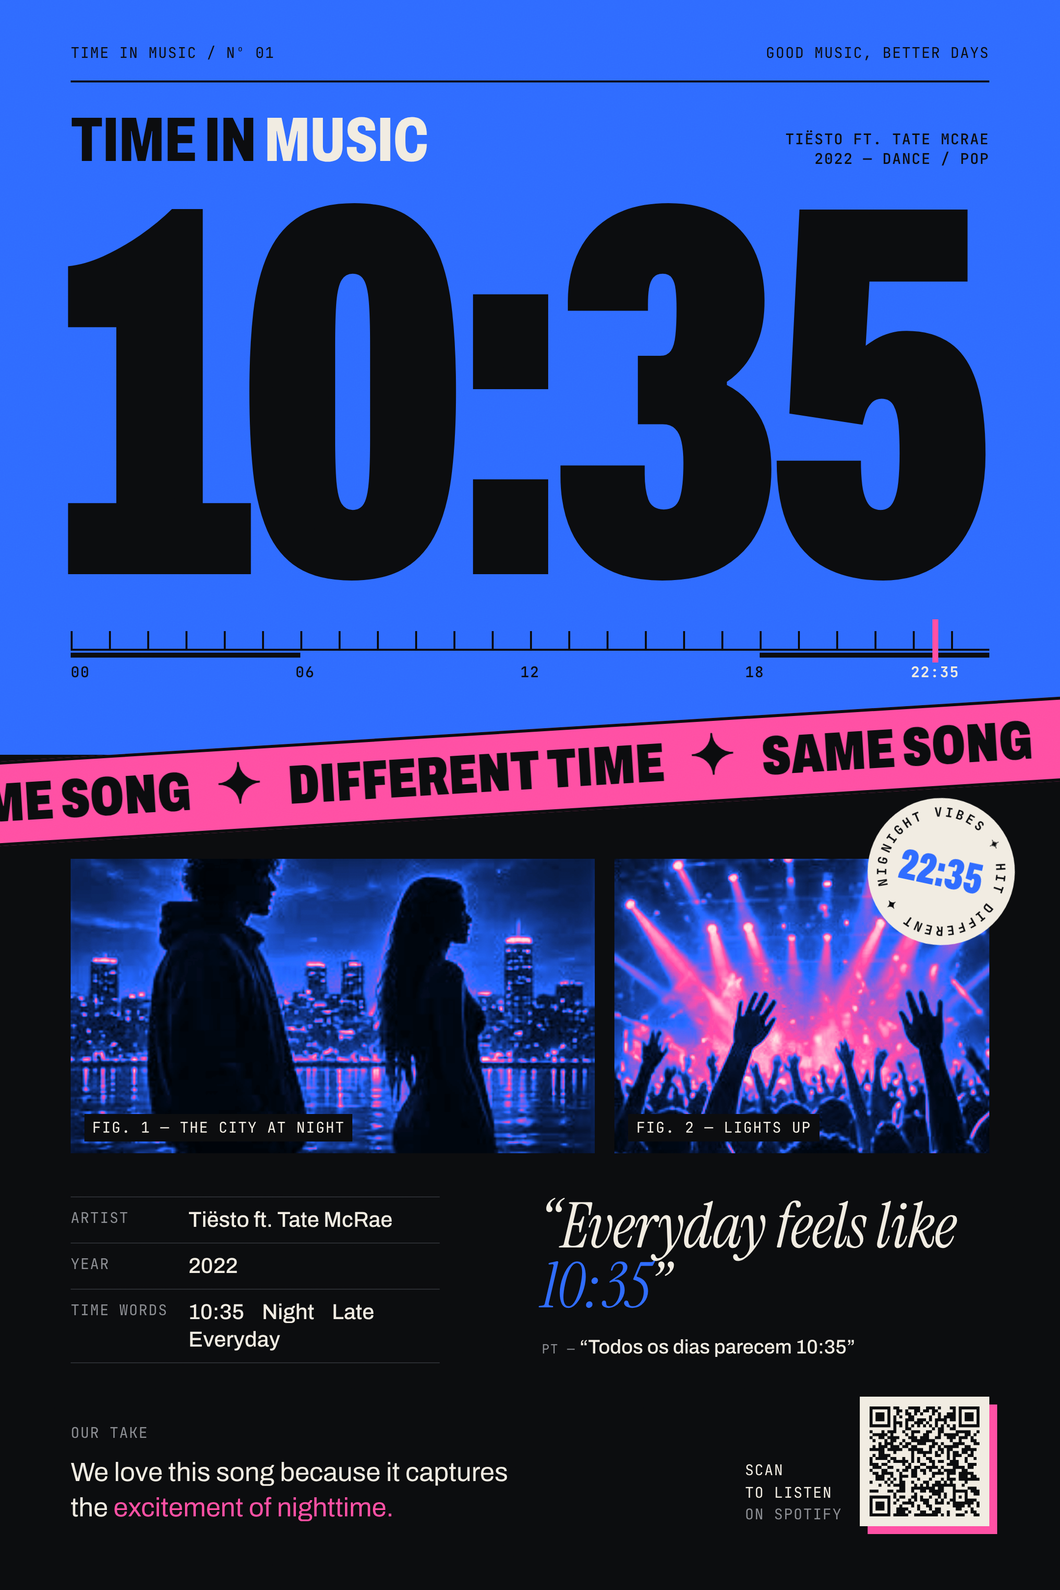
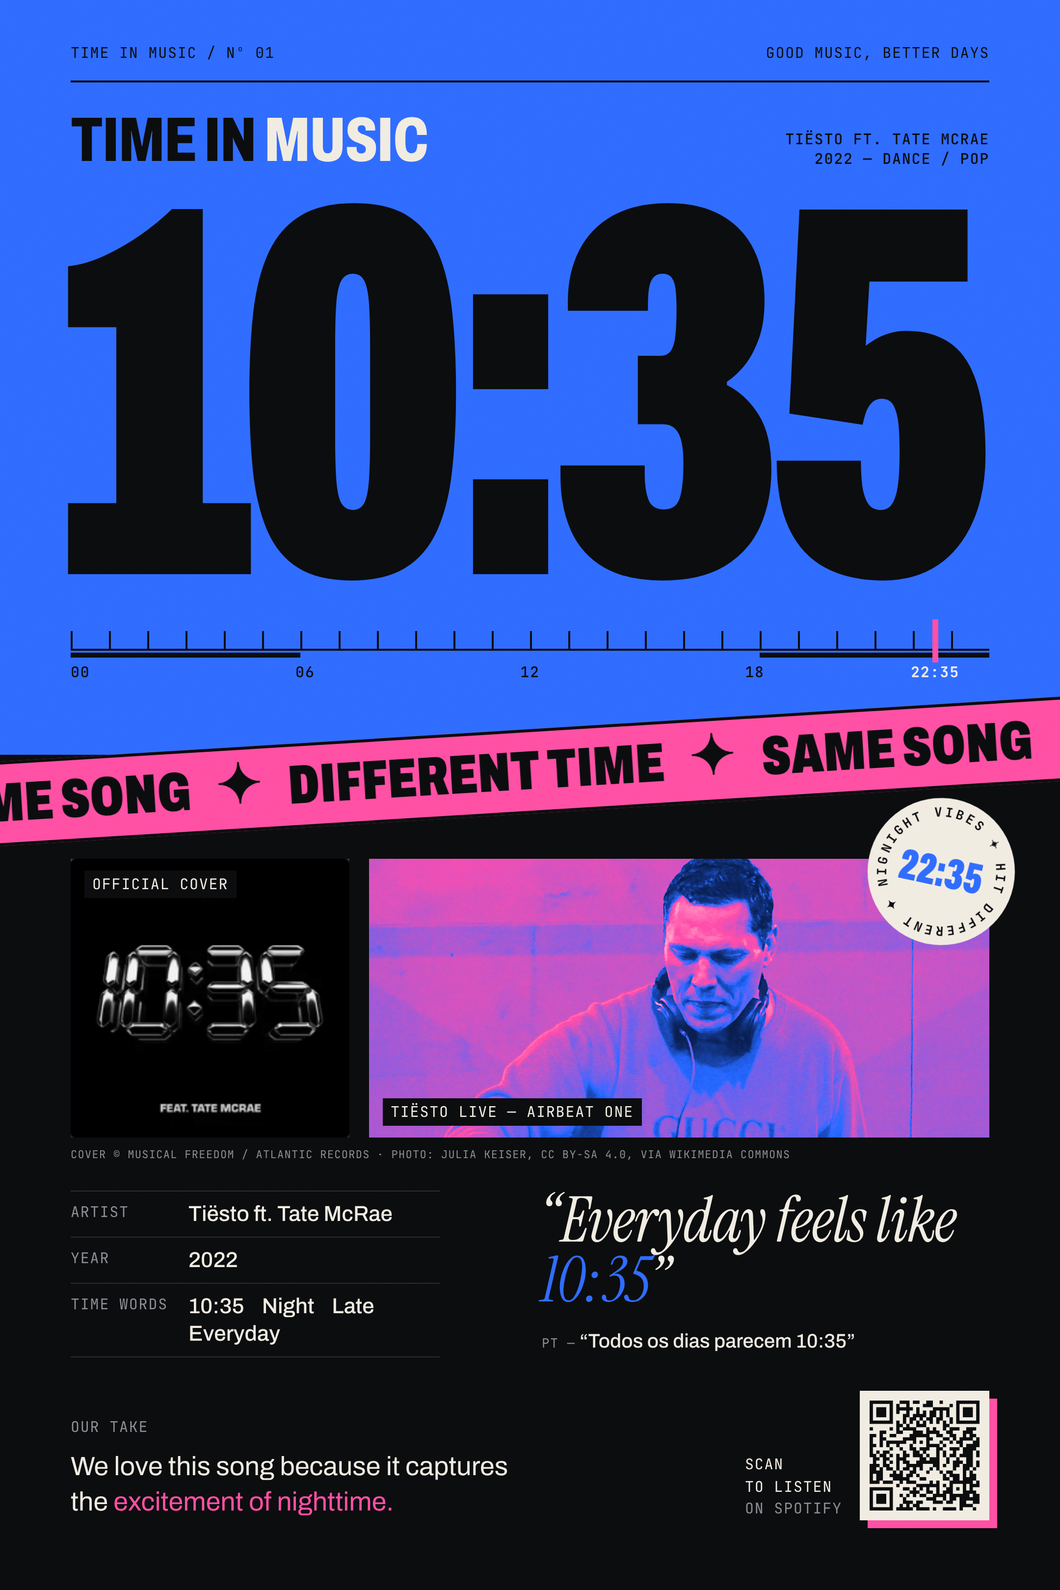
Use real official cover and CC-licensed Tiësto photo; QR to real Spotify track
Claude-Session: https://claude.ai/code/session_01N5V79tCM4EaiqWw1qUjwJE

diff --git a/poster-1035/poster.html b/poster-1035/poster.html
@@ -68,9 +68,12 @@
 
   /* ── fotos ── */
   .main{padding:0 var(--M) 56px;flex:1;display:flex;flex-direction:column}
-  .photos{margin-top:46px;display:grid;grid-template-columns:7fr 5fr;gap:20px;height:300px;position:relative}
+  .photos{margin-top:46px;display:grid;grid-template-columns:284px 1fr;gap:20px;height:284px;position:relative}
   .photos figure{position:relative;overflow:hidden;background:var(--ink)}
   .photos img{width:100%;height:100%;object-fit:cover;display:block;filter:url(#gradmap) contrast(1.1)}
+  .photos .cover img{filter:none}
+  .photos .cover figcaption{top:12px;bottom:auto}
+  .credits{margin-top:10px;font-size:11px;color:var(--mute)}
   .photos figcaption{position:absolute;left:14px;bottom:12px;color:var(--paper);z-index:1;
     background:var(--ink);padding:4px 8px}
 
@@ -84,7 +87,7 @@
   @keyframes spin{to{transform:rotate(360deg)}}
 
   /* ── corpo ── */
-  .body{margin-top:44px;display:grid;grid-template-columns:repeat(12,1fr);column-gap:24px;row-gap:34px;align-content:start}
+  .body{margin-top:30px;display:grid;grid-template-columns:repeat(12,1fr);column-gap:24px;row-gap:34px;align-content:start}
   .facts{grid-column:1 / span 5;border-top:1px solid var(--line)}
   .facts dl{display:grid;grid-template-columns:120px 1fr}
   .facts dt,.facts dd{padding:11px 0;border-bottom:1px solid var(--line)}
@@ -156,8 +159,8 @@
 
   <section class="main">
     <div class="photos">
-      <figure><img src="img/casal.png" alt="" style="object-position:50% 15%"><figcaption class="mono">Fig. 1 — The city at night</figcaption></figure>
-      <figure><img src="img/show.png" alt="" style="object-position:50% 30%"><figcaption class="mono">Fig. 2 — Lights up</figcaption></figure>
+      <figure class="cover"><img src="img/capa-oficial.png" alt="Capa oficial do single 10:35"><figcaption class="mono">Official cover</figcaption></figure>
+      <figure><img src="img/tiesto-airbeat-one-2017.jpg" alt="Tiësto ao vivo no Airbeat One 2017" style="object-position:50% 22%"><figcaption class="mono">Tiësto live — Airbeat One</figcaption></figure>
 
       <div class="sticker" aria-label="Night vibes hit different">
         <svg viewBox="0 0 150 150">
@@ -169,6 +172,7 @@
         <b>22:35</b>
       </div>
     </div>
+    <p class="credits mono">Cover © Musical Freedom / Atlantic Records · Photo: Julia Keiser, CC BY-SA 4.0, via Wikimedia Commons</p>
 
     <section class="body">
       <div class="facts">
@@ -192,7 +196,7 @@
 
       <div class="listen">
         <p class="mono">Scan<br>to listen<br><span class="mute">on Spotify</span></p>
-        <div class="qr"><svg version="1.1" viewBox="0 0 37 37" xmlns="http://www.w3.org/2000/svg"><path fill="#0B0C0E" d="M0,0H1V1H0zM1,0H2V1H1zM2,0H3V1H2zM3,0H4V1H3zM4,0H5V1H4zM5,0H6V1H5zM6,0H7V1H6zM8,0H9V1H8zM9,0H10V1H9zM13,0H14V1H13zM14,0H15V1H14zM15,0H16V1H15zM16,0H17V1H16zM19,0H20V1H19zM20,0H21V1H20zM21,0H22V1H21zM23,0H24V1H23zM27,0H28V1H27zM28,0H29V1H28zM30,0H31V1H30zM31,0H32V1H31zM32,0H33V1H32zM33,0H34V1H33zM34,0H35V1H34zM35,0H36V1H35zM36,0H37V1H36zM0,1H1V2H0zM6,1H7V2H6zM9,1H10V2H9zM10,1H11V2H10zM12,1H13V2H12zM15,1H16V2H15zM16,1H17V2H16zM18,1H19V2H18zM19,1H20V2H19zM21,1H22V2H21zM22,1H23V2H22zM28,1H29V2H28zM30,1H31V2H30zM36,1H37V2H36zM0,2H1V3H0zM2,2H3V3H2zM3,2H4V3H3zM4,2H5V3H4zM6,2H7V3H6zM9,2H10V3H9zM12,2H13V3H12zM13,2H14V3H13zM15,2H16V3H15zM17,2H18V3H17zM21,2H22V3H21zM23,2H24V3H23zM26,2H27V3H26zM27,2H28V3H27zM28,2H29V3H28zM30,2H31V3H30zM32,2H33V3H32zM33,2H34V3H33zM34,2H35V3H34zM36,2H37V3H36zM0,3H1V4H0zM2,3H3V4H2zM3,3H4V4H3zM4,3H5V4H4zM6,3H7V4H6zM8,3H9V4H8zM10,3H11V4H10zM13,3H14V4H13zM14,3H15V4H14zM20,3H21V4H20zM23,3H24V4H23zM25,3H26V4H25zM26,3H27V4H26zM27,3H28V4H27zM28,3H29V4H28zM30,3H31V4H30zM32,3H33V4H32zM33,3H34V4H33zM34,3H35V4H34zM36,3H37V4H36zM0,4H1V5H0zM2,4H3V5H2zM3,4H4V5H3zM4,4H5V5H4zM6,4H7V5H6zM8,4H9V5H8zM12,4H13V5H12zM13,4H14V5H13zM14,4H15V5H14zM16,4H17V5H16zM17,4H18V5H17zM18,4H19V5H18zM20,4H21V5H20zM22,4H23V5H22zM23,4H24V5H23zM24,4H25V5H24zM25,4H26V5H25zM27,4H28V5H27zM28,4H29V5H28zM30,4H31V5H30zM32,4H33V5H32zM33,4H34V5H33zM34,4H35V5H34zM36,4H37V5H36zM0,5H1V6H0zM6,5H7V6H6zM8,5H9V6H8zM9,5H10V6H9zM10,5H11V6H10zM12,5H13V6H12zM15,5H16V6H15zM16,5H17V6H16zM17,5H18V6H17zM19,5H20V6H19zM22,5H23V6H22zM25,5H26V6H25zM30,5H31V6H30zM36,5H37V6H36zM0,6H1V7H0zM1,6H2V7H1zM2,6H3V7H2zM3,6H4V7H3zM4,6H5V7H4zM5,6H6V7H5zM6,6H7V7H6zM8,6H9V7H8zM10,6H11V7H10zM12,6H13V7H12zM14,6H15V7H14zM16,6H17V7H16zM18,6H19V7H18zM20,6H21V7H20zM22,6H23V7H22zM24,6H25V7H24zM26,6H27V7H26zM28,6H29V7H28zM30,6H31V7H30zM31,6H32V7H31zM32,6H33V7H32zM33,6H34V7H33zM34,6H35V7H34zM35,6H36V7H35zM36,6H37V7H36zM8,7H9V8H8zM12,7H13V8H12zM13,7H14V8H13zM21,7H22V8H21zM23,7H24V8H23zM24,7H25V8H24zM27,7H28V8H27zM28,7H29V8H28zM0,8H1V9H0zM4,8H5V9H4zM6,8H7V9H6zM7,8H8V9H7zM8,8H9V9H8zM11,8H12V9H11zM14,8H15V9H14zM15,8H16V9H15zM16,8H17V9H16zM19,8H20V9H19zM20,8H21V9H20zM23,8H24V9H23zM24,8H25V9H24zM29,8H30V9H29zM30,8H31V9H30zM31,8H32V9H31zM32,8H33V9H32zM33,8H34V9H33zM36,8H37V9H36zM1,9H2V10H1zM2,9H3V10H2zM3,9H4V10H3zM4,9H5V10H4zM5,9H6V10H5zM7,9H8V10H7zM12,9H13V10H12zM14,9H15V10H14zM18,9H19V10H18zM19,9H20V10H19zM23,9H24V10H23zM25,9H26V10H25zM26,9H27V10H26zM27,9H28V10H27zM28,9H29V10H28zM29,9H30V10H29zM32,9H33V10H32zM33,9H34V10H33zM35,9H36V10H35zM0,10H1V11H0zM3,10H4V11H3zM4,10H5V11H4zM6,10H7V11H6zM7,10H8V11H7zM8,10H9V11H8zM9,10H10V11H9zM13,10H14V11H13zM14,10H15V11H14zM15,10H16V11H15zM17,10H18V11H17zM18,10H19V11H18zM19,10H20V11H19zM22,10H23V11H22zM23,10H24V11H23zM26,10H27V11H26zM27,10H28V11H27zM28,10H29V11H28zM30,10H31V11H30zM31,10H32V11H31zM32,10H33V11H32zM34,10H35V11H34zM1,11H2V12H1zM5,11H6V12H5zM7,11H8V12H7zM8,11H9V12H8zM11,11H12V12H11zM14,11H15V12H14zM15,11H16V12H15zM16,11H17V12H16zM17,11H18V12H17zM18,11H19V12H18zM19,11H20V12H19zM20,11H21V12H20zM21,11H22V12H21zM27,11H28V12H27zM30,11H31V12H30zM34,11H35V12H34zM35,11H36V12H35zM3,12H4V13H3zM5,12H6V13H5zM6,12H7V13H6zM7,12H8V13H7zM10,12H11V13H10zM12,12H13V13H12zM13,12H14V13H13zM16,12H17V13H16zM17,12H18V13H17zM18,12H19V13H18zM21,12H22V13H21zM22,12H23V13H22zM24,12H25V13H24zM28,12H29V13H28zM29,12H30V13H29zM30,12H31V13H30zM31,12H32V13H31zM35,12H36V13H35zM36,12H37V13H36zM1,13H2V14H1zM3,13H4V14H3zM4,13H5V14H4zM5,13H6V14H5zM7,13H8V14H7zM8,13H9V14H8zM9,13H10V14H9zM11,13H12V14H11zM12,13H13V14H12zM14,13H15V14H14zM15,13H16V14H15zM20,13H21V14H20zM21,13H22V14H21zM23,13H24V14H23zM25,13H26V14H25zM26,13H27V14H26zM27,13H28V14H27zM28,13H29V14H28zM29,13H30V14H29zM32,13H33V14H32zM33,13H34V14H33zM0,14H1V15H0zM1,14H2V15H1zM2,14H3V15H2zM3,14H4V15H3zM4,14H5V15H4zM6,14H7V15H6zM7,14H8V15H7zM8,14H9V15H8zM9,14H10V15H9zM10,14H11V15H10zM13,14H14V15H13zM14,14H15V15H14zM15,14H16V15H15zM16,14H17V15H16zM17,14H18V15H17zM20,14H21V15H20zM23,14H24V15H23zM24,14H25V15H24zM26,14H27V15H26zM27,14H28V15H27zM31,14H32V15H31zM32,14H33V15H32zM33,14H34V15H33zM34,14H35V15H34zM35,14H36V15H35zM3,15H4V16H3zM4,15H5V16H4zM8,15H9V16H8zM14,15H15V16H14zM16,15H17V16H16zM17,15H18V16H17zM18,15H19V16H18zM19,15H20V16H19zM20,15H21V16H20zM22,15H23V16H22zM24,15H25V16H24zM26,15H27V16H26zM28,15H29V16H28zM29,15H30V16H29zM31,15H32V16H31zM32,15H33V16H32zM34,15H35V16H34zM1,16H2V17H1zM3,16H4V17H3zM4,16H5V17H4zM5,16H6V17H5zM6,16H7V17H6zM14,16H15V17H14zM18,16H19V17H18zM22,16H23V17H22zM23,16H24V17H23zM26,16H27V17H26zM28,16H29V17H28zM29,16H30V17H29zM30,16H31V17H30zM33,16H34V17H33zM34,16H35V17H34zM0,17H1V18H0zM2,17H3V18H2zM3,17H4V18H3zM4,17H5V18H4zM5,17H6V18H5zM7,17H8V18H7zM8,17H9V18H8zM11,17H12V18H11zM14,17H15V18H14zM16,17H17V18H16zM19,17H20V18H19zM20,17H21V18H20zM26,17H27V18H26zM28,17H29V18H28zM32,17H33V18H32zM35,17H36V18H35zM0,18H1V19H0zM6,18H7V19H6zM8,18H9V19H8zM9,18H10V19H9zM10,18H11V19H10zM11,18H12V19H11zM12,18H13V19H12zM14,18H15V19H14zM16,18H17V19H16zM20,18H21V19H20zM21,18H22V19H21zM23,18H24V19H23zM24,18H25V19H24zM27,18H28V19H27zM28,18H29V19H28zM29,18H30V19H29zM32,18H33V19H32zM0,19H1V20H0zM1,19H2V20H1zM2,19H3V20H2zM4,19H5V20H4zM5,19H6V20H5zM11,19H12V20H11zM13,19H14V20H13zM17,19H18V20H17zM18,19H19V20H18zM21,19H22V20H21zM26,19H27V20H26zM27,19H28V20H27zM28,19H29V20H28zM29,19H30V20H29zM33,19H34V20H33zM34,19H35V20H34zM35,19H36V20H35zM1,20H2V21H1zM2,20H3V21H2zM3,20H4V21H3zM6,20H7V21H6zM7,20H8V21H7zM12,20H13V21H12zM13,20H14V21H13zM15,20H16V21H15zM16,20H17V21H16zM19,20H20V21H19zM20,20H21V21H20zM21,20H22V21H21zM22,20H23V21H22zM24,20H25V21H24zM28,20H29V21H28zM29,20H30V21H29zM30,20H31V21H30zM31,20H32V21H31zM33,20H34V21H33zM34,20H35V21H34zM0,21H1V22H0zM4,21H5V22H4zM5,21H6V22H5zM9,21H10V22H9zM11,21H12V22H11zM12,21H13V22H12zM14,21H15V22H14zM15,21H16V22H15zM17,21H18V22H17zM18,21H19V22H18zM20,21H21V22H20zM23,21H24V22H23zM25,21H26V22H25zM26,21H27V22H26zM27,21H28V22H27zM28,21H29V22H28zM31,21H32V22H31zM32,21H33V22H32zM1,22H2V23H1zM2,22H3V23H2zM4,22H5V23H4zM5,22H6V23H5zM6,22H7V23H6zM7,22H8V23H7zM10,22H11V23H10zM14,22H15V23H14zM15,22H16V23H15zM18,22H19V23H18zM21,22H22V23H21zM22,22H23V23H22zM23,22H24V23H23zM24,22H25V23H24zM26,22H27V23H26zM27,22H28V23H27zM28,22H29V23H28zM30,22H31V23H30zM31,22H32V23H31zM32,22H33V23H32zM33,22H34V23H33zM34,22H35V23H34zM2,23H3V24H2zM3,23H4V24H3zM4,23H5V24H4zM7,23H8V24H7zM10,23H11V24H10zM11,23H12V24H11zM12,23H13V24H12zM14,23H15V24H14zM15,23H16V24H15zM21,23H22V24H21zM26,23H27V24H26zM30,23H31V24H30zM31,23H32V24H31zM32,23H33V24H32zM34,23H35V24H34zM35,23H36V24H35zM2,24H3V25H2zM3,24H4V25H3zM4,24H5V25H4zM6,24H7V25H6zM8,24H9V25H8zM10,24H11V25H10zM16,24H17V25H16zM20,24H21V25H20zM24,24H25V25H24zM26,24H27V25H26zM27,24H28V25H27zM28,24H29V25H28zM30,24H31V25H30zM31,24H32V25H31zM32,24H33V25H32zM33,24H34V25H33zM34,24H35V25H34zM35,24H36V25H35zM36,24H37V25H36zM0,25H1V26H0zM5,25H6V26H5zM7,25H8V26H7zM10,25H11V26H10zM11,25H12V26H11zM14,25H15V26H14zM18,25H19V26H18zM19,25H20V26H19zM22,25H23V26H22zM23,25H24V26H23zM25,25H26V26H25zM27,25H28V26H27zM32,25H33V26H32zM3,26H4V27H3zM6,26H7V27H6zM8,26H9V27H8zM9,26H10V27H9zM10,26H11V27H10zM11,26H12V27H11zM15,26H16V27H15zM17,26H18V27H17zM19,26H20V27H19zM21,26H22V27H21zM22,26H23V27H22zM23,26H24V27H23zM24,26H25V27H24zM25,26H26V27H25zM26,26H27V27H26zM27,26H28V27H27zM28,26H29V27H28zM31,26H32V27H31zM10,27H11V28H10zM11,27H12V28H11zM14,27H15V28H14zM15,27H16V28H15zM16,27H17V28H16zM17,27H18V28H17zM18,27H19V28H18zM19,27H20V28H19zM20,27H21V28H20zM21,27H22V28H21zM23,27H24V28H23zM24,27H25V28H24zM28,27H29V28H28zM33,27H34V28H33zM34,27H35V28H34zM35,27H36V28H35zM0,28H1V29H0zM1,28H2V29H1zM2,28H3V29H2zM6,28H7V29H6zM7,28H8V29H7zM9,28H10V29H9zM10,28H11V29H10zM11,28H12V29H11zM14,28H15V29H14zM17,28H18V29H17zM18,28H19V29H18zM20,28H21V29H20zM21,28H22V29H21zM22,28H23V29H22zM23,28H24V29H23zM24,28H25V29H24zM28,28H29V29H28zM29,28H30V29H29zM30,28H31V29H30zM31,28H32V29H31zM32,28H33V29H32zM34,28H35V29H34zM35,28H36V29H35zM36,28H37V29H36zM8,29H9V30H8zM15,29H16V30H15zM21,29H22V30H21zM22,29H23V30H22zM23,29H24V30H23zM25,29H26V30H25zM28,29H29V30H28zM32,29H33V30H32zM35,29H36V30H35zM36,29H37V30H36zM0,30H1V31H0zM1,30H2V31H1zM2,30H3V31H2zM3,30H4V31H3zM4,30H5V31H4zM5,30H6V31H5zM6,30H7V31H6zM8,30H9V31H8zM10,30H11V31H10zM11,30H12V31H11zM14,30H15V31H14zM15,30H16V31H15zM17,30H18V31H17zM20,30H21V31H20zM23,30H24V31H23zM25,30H26V31H25zM28,30H29V31H28zM30,30H31V31H30zM32,30H33V31H32zM0,31H1V32H0zM6,31H7V32H6zM9,31H10V32H9zM13,31H14V32H13zM15,31H16V32H15zM17,31H18V32H17zM18,31H19V32H18zM19,31H20V32H19zM22,31H23V32H22zM24,31H25V32H24zM27,31H28V32H27zM28,31H29V32H28zM32,31H33V32H32zM33,31H34V32H33zM34,31H35V32H34zM35,31H36V32H35zM0,32H1V33H0zM2,32H3V33H2zM3,32H4V33H3zM4,32H5V33H4zM6,32H7V33H6zM8,32H9V33H8zM11,32H12V33H11zM12,32H13V33H12zM13,32H14V33H13zM14,32H15V33H14zM18,32H19V33H18zM19,32H20V33H19zM22,32H23V33H22zM23,32H24V33H23zM24,32H25V33H24zM26,32H27V33H26zM28,32H29V33H28zM29,32H30V33H29zM30,32H31V33H30zM31,32H32V33H31zM32,32H33V33H32zM33,32H34V33H33zM34,32H35V33H34zM36,32H37V33H36zM0,33H1V34H0zM2,33H3V34H2zM3,33H4V34H3zM4,33H5V34H4zM6,33H7V34H6zM10,33H11V34H10zM14,33H15V34H14zM16,33H17V34H16zM19,33H20V34H19zM20,33H21V34H20zM28,33H29V34H28zM29,33H30V34H29zM30,33H31V34H30zM31,33H32V34H31zM33,33H34V34H33zM36,33H37V34H36zM0,34H1V35H0zM2,34H3V35H2zM3,34H4V35H3zM4,34H5V35H4zM6,34H7V35H6zM9,34H10V35H9zM10,34H11V35H10zM11,34H12V35H11zM12,34H13V35H12zM16,34H17V35H16zM20,34H21V35H20zM22,34H23V35H22zM23,34H24V35H23zM29,34H30V35H29zM30,34H31V35H30zM34,34H35V35H34zM0,35H1V36H0zM6,35H7V36H6zM9,35H10V36H9zM10,35H11V36H10zM11,35H12V36H11zM13,35H14V36H13zM17,35H18V36H17zM18,35H19V36H18zM21,35H22V36H21zM22,35H23V36H22zM23,35H24V36H23zM26,35H27V36H26zM32,35H33V36H32zM34,35H35V36H34zM35,35H36V36H35zM0,36H1V37H0zM1,36H2V37H1zM2,36H3V37H2zM3,36H4V37H3zM4,36H5V37H4zM5,36H6V37H5zM6,36H7V37H6zM8,36H9V37H8zM9,36H10V37H9zM10,36H11V37H10zM11,36H12V37H11zM12,36H13V37H12zM15,36H16V37H15zM16,36H17V37H16zM17,36H18V37H17zM18,36H19V37H18zM19,36H20V37H19zM20,36H21V37H20zM21,36H22V37H21zM22,36H23V37H22zM24,36H25V37H24zM26,36H27V37H26zM29,36H30V37H29zM30,36H31V37H30zM31,36H32V37H31zM35,36H36V37H35zM36,36H37V37H36z" id="qr-path" fill="#000000" fill-opacity="1" fill-rule="nonzero" stroke="none"/></svg></div>
+        <div class="qr"><svg version="1.1" viewBox="0 0 33 33" xmlns="http://www.w3.org/2000/svg"><path fill="#0B0C0E" d="M0,0H1V1H0zM1,0H2V1H1zM2,0H3V1H2zM3,0H4V1H3zM4,0H5V1H4zM5,0H6V1H5zM6,0H7V1H6zM9,0H10V1H9zM10,0H11V1H10zM11,0H12V1H11zM13,0H14V1H13zM14,0H15V1H14zM17,0H18V1H17zM18,0H19V1H18zM21,0H22V1H21zM26,0H27V1H26zM27,0H28V1H27zM28,0H29V1H28zM29,0H30V1H29zM30,0H31V1H30zM31,0H32V1H31zM32,0H33V1H32zM0,1H1V2H0zM6,1H7V2H6zM8,1H9V2H8zM11,1H12V2H11zM16,1H17V2H16zM17,1H18V2H17zM18,1H19V2H18zM24,1H25V2H24zM26,1H27V2H26zM32,1H33V2H32zM0,2H1V3H0zM2,2H3V3H2zM3,2H4V3H3zM4,2H5V3H4zM6,2H7V3H6zM8,2H9V3H8zM9,2H10V3H9zM10,2H11V3H10zM11,2H12V3H11zM12,2H13V3H12zM14,2H15V3H14zM19,2H20V3H19zM20,2H21V3H20zM21,2H22V3H21zM22,2H23V3H22zM23,2H24V3H23zM26,2H27V3H26zM28,2H29V3H28zM29,2H30V3H29zM30,2H31V3H30zM32,2H33V3H32zM0,3H1V4H0zM2,3H3V4H2zM3,3H4V4H3zM4,3H5V4H4zM6,3H7V4H6zM8,3H9V4H8zM11,3H12V4H11zM14,3H15V4H14zM16,3H17V4H16zM18,3H19V4H18zM19,3H20V4H19zM21,3H22V4H21zM23,3H24V4H23zM26,3H27V4H26zM28,3H29V4H28zM29,3H30V4H29zM30,3H31V4H30zM32,3H33V4H32zM0,4H1V5H0zM2,4H3V5H2zM3,4H4V5H3zM4,4H5V5H4zM6,4H7V5H6zM10,4H11V5H10zM11,4H12V5H11zM13,4H14V5H13zM14,4H15V5H14zM15,4H16V5H15zM16,4H17V5H16zM18,4H19V5H18zM19,4H20V5H19zM21,4H22V5H21zM23,4H24V5H23zM26,4H27V5H26zM28,4H29V5H28zM29,4H30V5H29zM30,4H31V5H30zM32,4H33V5H32zM0,5H1V6H0zM6,5H7V6H6zM10,5H11V6H10zM12,5H13V6H12zM13,5H14V6H13zM15,5H16V6H15zM17,5H18V6H17zM18,5H19V6H18zM20,5H21V6H20zM21,5H22V6H21zM24,5H25V6H24zM26,5H27V6H26zM32,5H33V6H32zM0,6H1V7H0zM1,6H2V7H1zM2,6H3V7H2zM3,6H4V7H3zM4,6H5V7H4zM5,6H6V7H5zM6,6H7V7H6zM8,6H9V7H8zM10,6H11V7H10zM12,6H13V7H12zM14,6H15V7H14zM16,6H17V7H16zM18,6H19V7H18zM20,6H21V7H20zM22,6H23V7H22zM24,6H25V7H24zM26,6H27V7H26zM27,6H28V7H27zM28,6H29V7H28zM29,6H30V7H29zM30,6H31V7H30zM31,6H32V7H31zM32,6H33V7H32zM8,7H9V8H8zM9,7H10V8H9zM11,7H12V8H11zM14,7H15V8H14zM15,7H16V8H15zM16,7H17V8H16zM22,7H23V8H22zM23,7H24V8H23zM0,8H1V9H0zM6,8H7V9H6zM8,8H9V9H8zM10,8H11V9H10zM11,8H12V9H11zM12,8H13V9H12zM13,8H14V9H13zM17,8H18V9H17zM19,8H20V9H19zM22,8H23V9H22zM24,8H25V9H24zM25,8H26V9H25zM26,8H27V9H26zM29,8H30V9H29zM30,8H31V9H30zM31,8H32V9H31zM3,9H4V10H3zM4,9H5V10H4zM8,9H9V10H8zM9,9H10V10H9zM13,9H14V10H13zM14,9H15V10H14zM15,9H16V10H15zM17,9H18V10H17zM18,9H19V10H18zM19,9H20V10H19zM20,9H21V10H20zM23,9H24V10H23zM24,9H25V10H24zM28,9H29V10H28zM29,9H30V10H29zM30,9H31V10H30zM0,10H1V11H0zM1,10H2V11H1zM3,10H4V11H3zM6,10H7V11H6zM7,10H8V11H7zM12,10H13V11H12zM13,10H14V11H13zM14,10H15V11H14zM15,10H16V11H15zM16,10H17V11H16zM17,10H18V11H17zM20,10H21V11H20zM21,10H22V11H21zM24,10H25V11H24zM25,10H26V11H25zM28,10H29V11H28zM30,10H31V11H30zM31,10H32V11H31zM0,11H1V12H0zM3,11H4V12H3zM4,11H5V12H4zM10,11H11V12H10zM11,11H12V12H11zM12,11H13V12H12zM13,11H14V12H13zM17,11H18V12H17zM18,11H19V12H18zM22,11H23V12H22zM23,11H24V12H23zM25,11H26V12H25zM27,11H28V12H27zM28,11H29V12H28zM29,11H30V12H29zM30,11H31V12H30zM32,11H33V12H32zM0,12H1V13H0zM3,12H4V13H3zM5,12H6V13H5zM6,12H7V13H6zM7,12H8V13H7zM8,12H9V13H8zM9,12H10V13H9zM10,12H11V13H10zM13,12H14V13H13zM15,12H16V13H15zM17,12H18V13H17zM21,12H22V13H21zM24,12H25V13H24zM26,12H27V13H26zM27,12H28V13H27zM31,12H32V13H31zM32,12H33V13H32zM0,13H1V14H0zM1,13H2V14H1zM3,13H4V14H3zM5,13H6V14H5zM8,13H9V14H8zM12,13H13V14H12zM17,13H18V14H17zM18,13H19V14H18zM19,13H20V14H19zM20,13H21V14H20zM22,13H23V14H22zM27,13H28V14H27zM29,13H30V14H29zM30,13H31V14H30zM31,13H32V14H31zM32,13H33V14H32zM0,14H1V15H0zM6,14H7V15H6zM9,14H10V15H9zM12,14H13V15H12zM13,14H14V15H13zM15,14H16V15H15zM16,14H17V15H16zM17,14H18V15H17zM20,14H21V15H20zM21,14H22V15H21zM24,14H25V15H24zM25,14H26V15H25zM26,14H27V15H26zM28,14H29V15H28zM29,14H30V15H29zM30,14H31V15H30zM31,14H32V15H31zM0,15H1V16H0zM2,15H3V16H2zM4,15H5V16H4zM5,15H6V16H5zM10,15H11V16H10zM13,15H14V16H13zM14,15H15V16H14zM16,15H17V16H16zM20,15H21V16H20zM22,15H23V16H22zM25,15H26V16H25zM28,15H29V16H28zM29,15H30V16H29zM30,15H31V16H30zM32,15H33V16H32zM0,16H1V17H0zM1,16H2V17H1zM3,16H4V17H3zM4,16H5V17H4zM6,16H7V17H6zM8,16H9V17H8zM10,16H11V17H10zM11,16H12V17H11zM13,16H14V17H13zM14,16H15V17H14zM15,16H16V17H15zM17,16H18V17H17zM20,16H21V17H20zM22,16H23V17H22zM24,16H25V17H24zM25,16H26V17H25zM27,16H28V17H27zM28,16H29V17H28zM29,16H30V17H29zM30,16H31V17H30zM32,16H33V17H32zM1,17H2V18H1zM2,17H3V18H2zM4,17H5V18H4zM5,17H6V18H5zM8,17H9V18H8zM9,17H10V18H9zM10,17H11V18H10zM15,17H16V18H15zM16,17H17V18H16zM18,17H19V18H18zM19,17H20V18H19zM20,17H21V18H20zM23,17H24V18H23zM26,17H27V18H26zM29,17H30V18H29zM30,17H31V18H30zM1,18H2V19H1zM4,18H5V19H4zM6,18H7V19H6zM8,18H9V19H8zM10,18H11V19H10zM11,18H12V19H11zM14,18H15V19H14zM15,18H16V19H15zM16,18H17V19H16zM17,18H18V19H17zM18,18H19V19H18zM19,18H20V19H19zM20,18H21V19H20zM23,18H24V19H23zM25,18H26V19H25zM26,18H27V19H26zM27,18H28V19H27zM29,18H30V19H29zM30,18H31V19H30zM32,18H33V19H32zM0,19H1V20H0zM1,19H2V20H1zM2,19H3V20H2zM4,19H5V20H4zM5,19H6V20H5zM8,19H9V20H8zM11,19H12V20H11zM12,19H13V20H12zM13,19H14V20H13zM14,19H15V20H14zM15,19H16V20H15zM19,19H20V20H19zM20,19H21V20H20zM22,19H23V20H22zM25,19H26V20H25zM26,19H27V20H26zM28,19H29V20H28zM29,19H30V20H29zM30,19H31V20H30zM32,19H33V20H32zM0,20H1V21H0zM1,20H2V21H1zM3,20H4V21H3zM5,20H6V21H5zM6,20H7V21H6zM8,20H9V21H8zM10,20H11V21H10zM11,20H12V21H11zM13,20H14V21H13zM15,20H16V21H15zM18,20H19V21H18zM20,20H21V21H20zM25,20H26V21H25zM28,20H29V21H28zM29,20H30V21H29zM31,20H32V21H31zM0,21H1V22H0zM1,21H2V22H1zM2,21H3V22H2zM3,21H4V22H3zM7,21H8V22H7zM9,21H10V22H9zM12,21H13V22H12zM13,21H14V22H13zM17,21H18V22H17zM21,21H22V22H21zM23,21H24V22H23zM24,21H25V22H24zM28,21H29V22H28zM30,21H31V22H30zM0,22H1V23H0zM2,22H3V23H2zM3,22H4V23H3zM6,22H7V23H6zM7,22H8V23H7zM8,22H9V23H8zM9,22H10V23H9zM11,22H12V23H11zM12,22H13V23H12zM14,22H15V23H14zM22,22H23V23H22zM24,22H25V23H24zM25,22H26V23H25zM26,22H27V23H26zM28,22H29V23H28zM30,22H31V23H30zM31,22H32V23H31zM0,23H1V24H0zM2,23H3V24H2zM3,23H4V24H3zM7,23H8V24H7zM8,23H9V24H8zM9,23H10V24H9zM10,23H11V24H10zM11,23H12V24H11zM15,23H16V24H15zM16,23H17V24H16zM22,23H23V24H22zM23,23H24V24H23zM25,23H26V24H25zM26,23H27V24H26zM28,23H29V24H28zM29,23H30V24H29zM30,23H31V24H30zM31,23H32V24H31zM0,24H1V25H0zM1,24H2V25H1zM2,24H3V25H2zM4,24H5V25H4zM5,24H6V25H5zM6,24H7V25H6zM9,24H10V25H9zM11,24H12V25H11zM12,24H13V25H12zM13,24H14V25H13zM18,24H19V25H18zM20,24H21V25H20zM24,24H25V25H24zM25,24H26V25H25zM26,24H27V25H26zM27,24H28V25H27zM28,24H29V25H28zM29,24H30V25H29zM30,24H31V25H30zM32,24H33V25H32zM8,25H9V26H8zM14,25H15V26H14zM15,25H16V26H15zM16,25H17V26H16zM17,25H18V26H17zM18,25H19V26H18zM19,25H20V26H19zM20,25H21V26H20zM22,25H23V26H22zM24,25H25V26H24zM28,25H29V26H28zM30,25H31V26H30zM31,25H32V26H31zM32,25H33V26H32zM0,26H1V27H0zM1,26H2V27H1zM2,26H3V27H2zM3,26H4V27H3zM4,26H5V27H4zM5,26H6V27H5zM6,26H7V27H6zM10,26H11V27H10zM11,26H12V27H11zM13,26H14V27H13zM15,26H16V27H15zM17,26H18V27H17zM20,26H21V27H20zM23,26H24V27H23zM24,26H25V27H24zM26,26H27V27H26zM28,26H29V27H28zM30,26H31V27H30zM0,27H1V28H0zM6,27H7V28H6zM12,27H13V28H12zM13,27H14V28H13zM14,27H15V28H14zM17,27H18V28H17zM18,27H19V28H18zM20,27H21V28H20zM22,27H23V28H22zM23,27H24V28H23zM24,27H25V28H24zM28,27H29V28H28zM29,27H30V28H29zM30,27H31V28H30zM31,27H32V28H31zM0,28H1V29H0zM2,28H3V29H2zM3,28H4V29H3zM4,28H5V29H4zM6,28H7V29H6zM9,28H10V29H9zM11,28H12V29H11zM13,28H14V29H13zM15,28H16V29H15zM16,28H17V29H16zM19,28H20V29H19zM20,28H21V29H20zM21,28H22V29H21zM22,28H23V29H22zM24,28H25V29H24zM25,28H26V29H25zM26,28H27V29H26zM27,28H28V29H27zM28,28H29V29H28zM29,28H30V29H29zM31,28H32V29H31zM32,28H33V29H32zM0,29H1V30H0zM2,29H3V30H2zM3,29H4V30H3zM4,29H5V30H4zM6,29H7V30H6zM10,29H11V30H10zM17,29H18V30H17zM18,29H19V30H18zM19,29H20V30H19zM22,29H23V30H22zM24,29H25V30H24zM25,29H26V30H25zM27,29H28V30H27zM28,29H29V30H28zM29,29H30V30H29zM30,29H31V30H30zM31,29H32V30H31zM32,29H33V30H32zM0,30H1V31H0zM2,30H3V31H2zM3,30H4V31H3zM4,30H5V31H4zM6,30H7V31H6zM10,30H11V31H10zM11,30H12V31H11zM12,30H13V31H12zM14,30H15V31H14zM15,30H16V31H15zM19,30H20V31H19zM20,30H21V31H20zM21,30H22V31H21zM23,30H24V31H23zM24,30H25V31H24zM27,30H28V31H27zM28,30H29V31H28zM31,30H32V31H31zM32,30H33V31H32zM0,31H1V32H0zM6,31H7V32H6zM9,31H10V32H9zM11,31H12V32H11zM13,31H14V32H13zM14,31H15V32H14zM27,31H28V32H27zM28,31H29V32H28zM29,31H30V32H29zM30,31H31V32H30zM0,32H1V33H0zM1,32H2V33H1zM2,32H3V33H2zM3,32H4V33H3zM4,32H5V33H4zM5,32H6V33H5zM6,32H7V33H6zM8,32H9V33H8zM9,32H10V33H9zM10,32H11V33H10zM11,32H12V33H11zM12,32H13V33H12zM14,32H15V33H14zM15,32H16V33H15zM16,32H17V33H16zM17,32H18V33H17zM19,32H20V33H19zM22,32H23V33H22zM23,32H24V33H23zM24,32H25V33H24zM25,32H26V33H25zM27,32H28V33H27zM31,32H32V33H31z" id="qr-path" fill="#000000" fill-opacity="1" fill-rule="nonzero" stroke="none"/></svg></div>
       </div>
     </section>
   </section>

diff --git a/poster-1035/poster.src.html b/poster-1035/poster.src.html
@@ -68,9 +68,12 @@
 
   /* ── fotos ── */
   .main{padding:0 var(--M) 56px;flex:1;display:flex;flex-direction:column}
-  .photos{margin-top:46px;display:grid;grid-template-columns:7fr 5fr;gap:20px;height:300px;position:relative}
+  .photos{margin-top:46px;display:grid;grid-template-columns:284px 1fr;gap:20px;height:284px;position:relative}
   .photos figure{position:relative;overflow:hidden;background:var(--ink)}
   .photos img{width:100%;height:100%;object-fit:cover;display:block;filter:url(#gradmap) contrast(1.1)}
+  .photos .cover img{filter:none}
+  .photos .cover figcaption{top:12px;bottom:auto}
+  .credits{margin-top:10px;font-size:11px;color:var(--mute)}
   .photos figcaption{position:absolute;left:14px;bottom:12px;color:var(--paper);z-index:1;
     background:var(--ink);padding:4px 8px}
 
@@ -84,7 +87,7 @@
   @keyframes spin{to{transform:rotate(360deg)}}
 
   /* ── corpo ── */
-  .body{margin-top:44px;display:grid;grid-template-columns:repeat(12,1fr);column-gap:24px;row-gap:34px;align-content:start}
+  .body{margin-top:30px;display:grid;grid-template-columns:repeat(12,1fr);column-gap:24px;row-gap:34px;align-content:start}
   .facts{grid-column:1 / span 5;border-top:1px solid var(--line)}
   .facts dl{display:grid;grid-template-columns:120px 1fr}
   .facts dt,.facts dd{padding:11px 0;border-bottom:1px solid var(--line)}
@@ -156,8 +159,8 @@
 
   <section class="main">
     <div class="photos">
-      <figure><img src="img/casal.png" alt="" style="object-position:50% 15%"><figcaption class="mono">Fig. 1 — The city at night</figcaption></figure>
-      <figure><img src="img/show.png" alt="" style="object-position:50% 30%"><figcaption class="mono">Fig. 2 — Lights up</figcaption></figure>
+      <figure class="cover"><img src="img/capa-oficial.png" alt="Capa oficial do single 10:35"><figcaption class="mono">Official cover</figcaption></figure>
+      <figure><img src="img/tiesto-airbeat-one-2017.jpg" alt="Tiësto ao vivo no Airbeat One 2017" style="object-position:50% 22%"><figcaption class="mono">Tiësto live — Airbeat One</figcaption></figure>
 
       <div class="sticker" aria-label="Night vibes hit different">
         <svg viewBox="0 0 150 150">
@@ -169,6 +172,7 @@
         <b>22:35</b>
       </div>
     </div>
+    <p class="credits mono">Cover © Musical Freedom / Atlantic Records · Photo: Julia Keiser, CC BY-SA 4.0, via Wikimedia Commons</p>
 
     <section class="body">
       <div class="facts">
